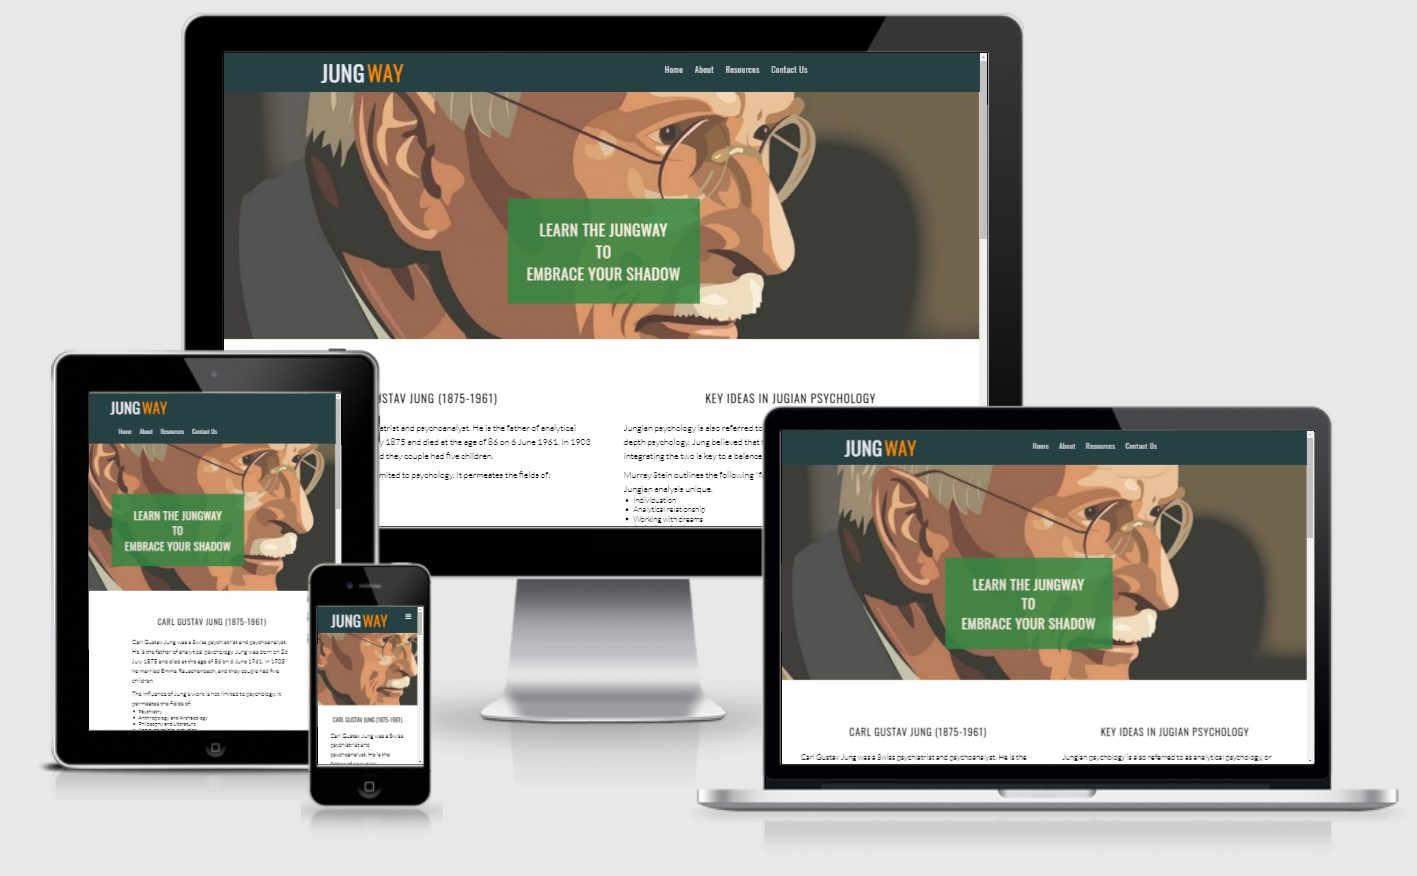
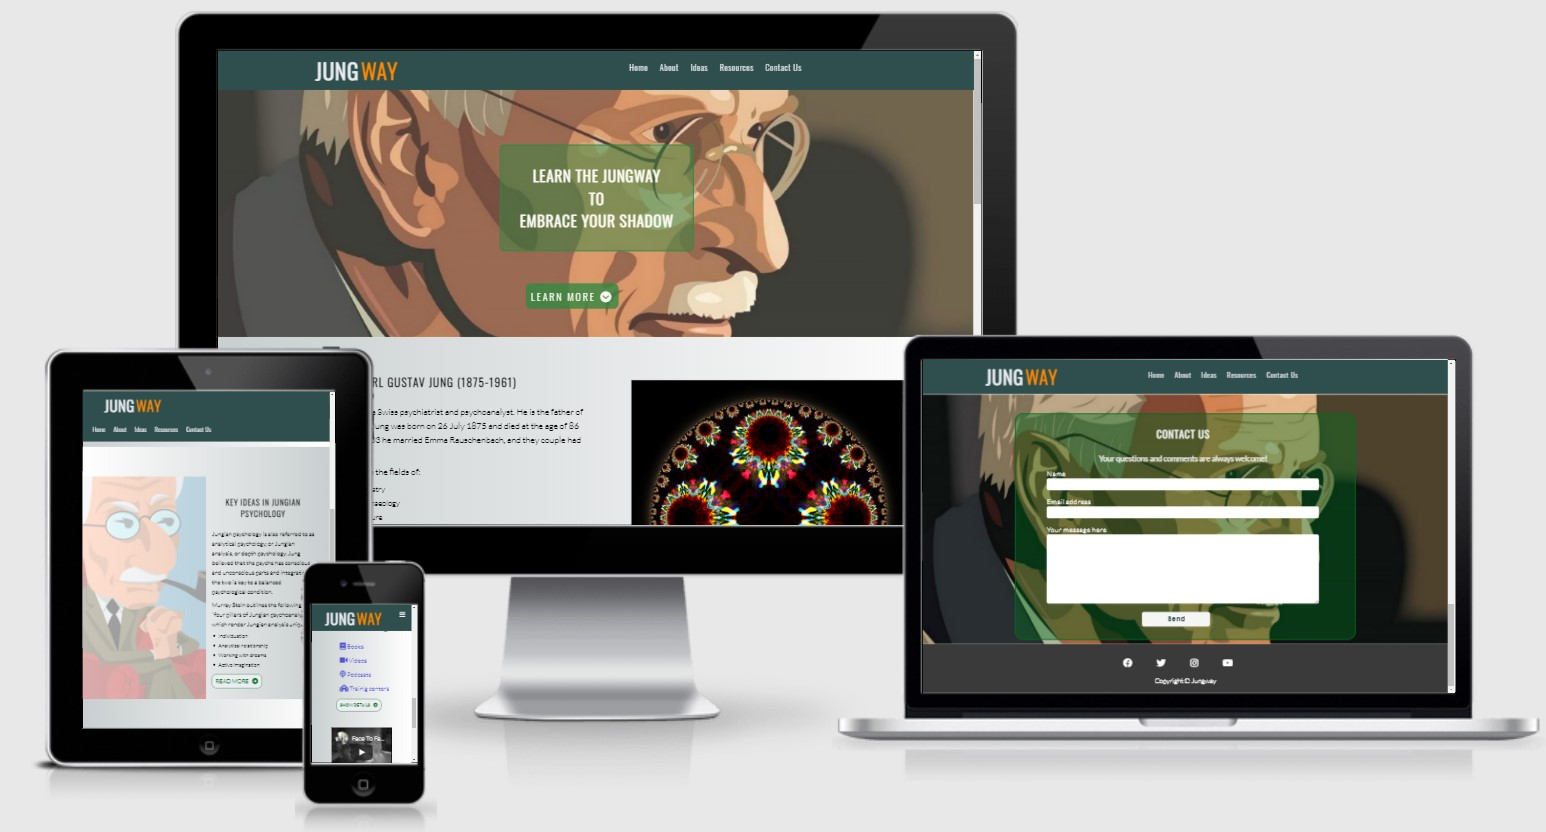
modify style for small devices

diff --git a/assets/css/style.css b/assets/css/style.css
@@ -477,8 +477,11 @@ blockquote :nth-child(2){
 
 @media screen and (max-width: 1024px){
   #bio {
-    height: 75vh;
-    padding-top: 90px;
+    height: 100vh;
+    padding-top: 75px;
+  }
+  #bio h2 {
+    font-size: 1.2em;
   }
   .bio-left {
   padding-left: 45px;
@@ -489,25 +492,27 @@ blockquote :nth-child(2){
 }
 
 #ideas {
-  height: 75vh;
-  padding-top: 90px;
+  height: 100vh;
+  padding-top: 75px;
+}
+#ideas h2 {
+  font-size: 1.2em;
 }
 .ideas-right {
-  padding: 30px 45px 10px 10px;
+  padding: 10px 45px 10px 10px;
 }
 
 #resources {
   background-color: inherit;
   overflow: hidden;
-  padding-top: 45px;
-  height: 60vh;
+  height: 75vh;
   margin: 0 auto;
 }
 
 .resource-left {
   float: left;
-  padding-bottom: 30px;
-  padding-left: 45px;
+  height: fit-content;
+  padding-left: 30px;
   width: 35%;
 }
 .resource-left li {
@@ -515,14 +520,14 @@ blockquote :nth-child(2){
 }
 .resource-right {
   text-align: center;
-  float: none;
-  width: 100%;
+  float: right;
+  width: auto;
   padding: 10px 0;
 }
 
 #contact {
   overflow: hidden;
-  height: 60vh;
+  height: 600px;
 }
 .article {
   width: 100%;
@@ -566,7 +571,7 @@ blockquote :nth-child(2){
   background-size: cover;
   opacity: 0.3;
  padding-top: 0;
- height: 65vh;
+ height: 100vh;
 }
 #bio a.link-btn {
   background-color: #006e1e;
@@ -585,7 +590,7 @@ blockquote :nth-child(2){
 }
 #ideas {
   padding-top: 0;
-  height: 75vh;
+  height: 100vh;
   font-size: 130%;
 }
 .ideas-left {
@@ -628,7 +633,9 @@ iframe {
   #contact {
     padding-top: 20px;
   }
-
+  #contact-form {
+    width: 90%;
+}
   #contact-form h2 {
   padding: 10px;
 }
@@ -659,24 +666,20 @@ form label {
     font-size: 1.15em;
   }
 
-  #jung-bio, #jung-ideas {
+  #bio, #ideas {
     padding-top: 0;
-    width: 75%;
+    height: fit-content;
   }
-
-  #jung-bio p, #jung-ideas p {
+.bio-left {
+  padding-bottom: 30px;
+}
+  #bio p, #ideas p {
     padding-top: 0;
   }
-  
   button {
     margin: 0 auto;
     font-size: 1.15em;
   }
-
-  #resources {
-    margin-top: 150px;
-  }
-
   #resources h2 {
     font-size: 0.985em;
   }
@@ -688,7 +691,9 @@ form label {
   #contact {
     padding-top: 20px;
   }
-
+  #contact-form {
+    width: 90%;
+}
   #contact-form h2 {
   padding: 10px;
 }

diff --git a/about.html b/about.html
@@ -45,9 +45,9 @@
                     <a href="#contact">Contact Us</a>
                 </li>
             </ul>
-             <!-- Icon to toggle menu on mobile, code from w3schools -->
+            <!-- Icon to toggle menu on mobile, code from w3schools -->
             <a href="javascript:void(0);" class="icon" onclick="myFunction()">
-                <i class="fas fa-bars"></i> </a> 
+                <i class="fas fa-bars"></i> </a>
         </nav>
     </header>
     <!-- Article -->
@@ -135,6 +135,7 @@
 
     <!-- font awesome script -->
     <script src="https://kit.fontawesome.com/1334675705.js" crossorigin="anonymous"></script>
+    <script src="assets/js/script.js"></script>
 </body>
 
 </html>

diff --git a/ideas.html b/ideas.html
@@ -124,6 +124,7 @@
     
     <!-- font awesome script -->
     <script src="https://kit.fontawesome.com/1334675705.js" crossorigin="anonymous"></script>
+    <script src="assets/js/script.js"></script>
 </body>
 
 </html>

diff --git a/resources.html b/resources.html
@@ -164,6 +164,7 @@
 
     <!-- font awesome script -->
     <script src="https://kit.fontawesome.com/1334675705.js" crossorigin="anonymous"></script>
+    <script src="assets/js/script.js"></script>
 </body>
 
 </html>
